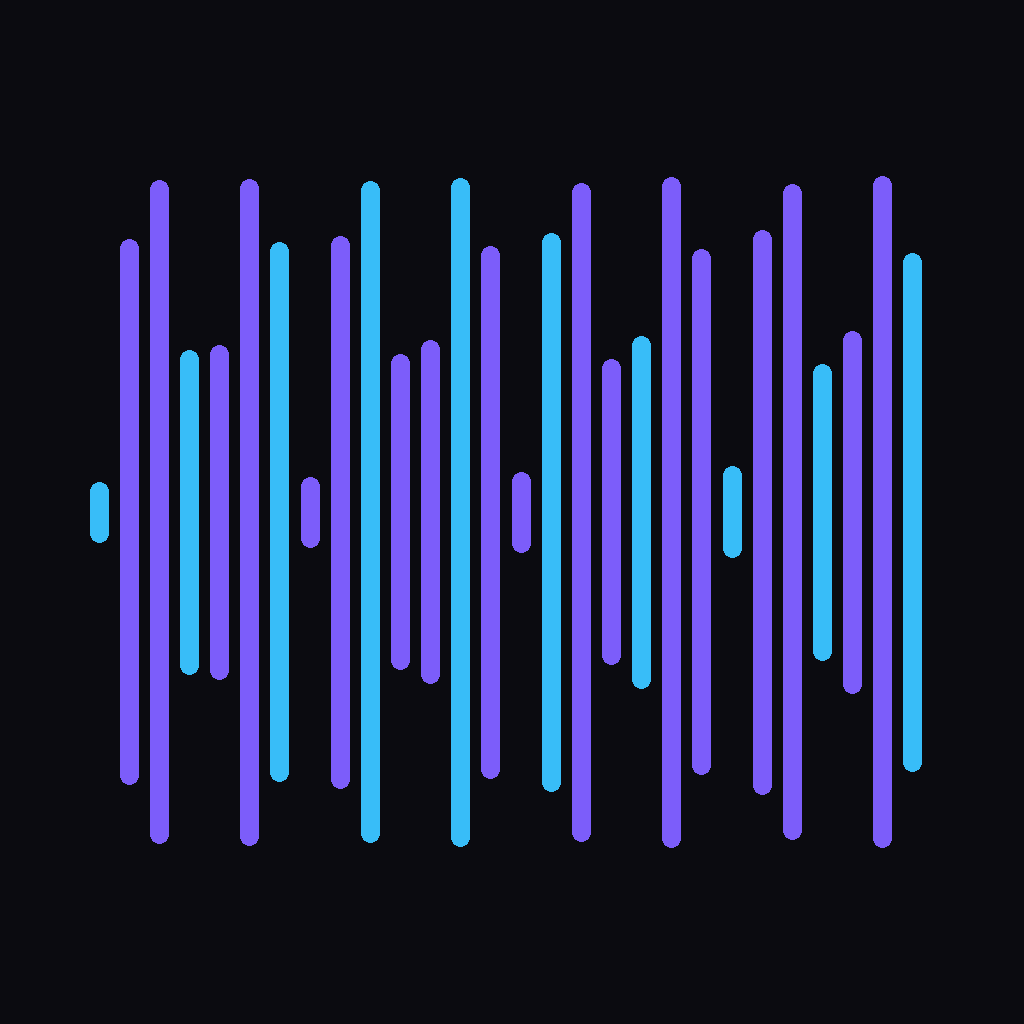
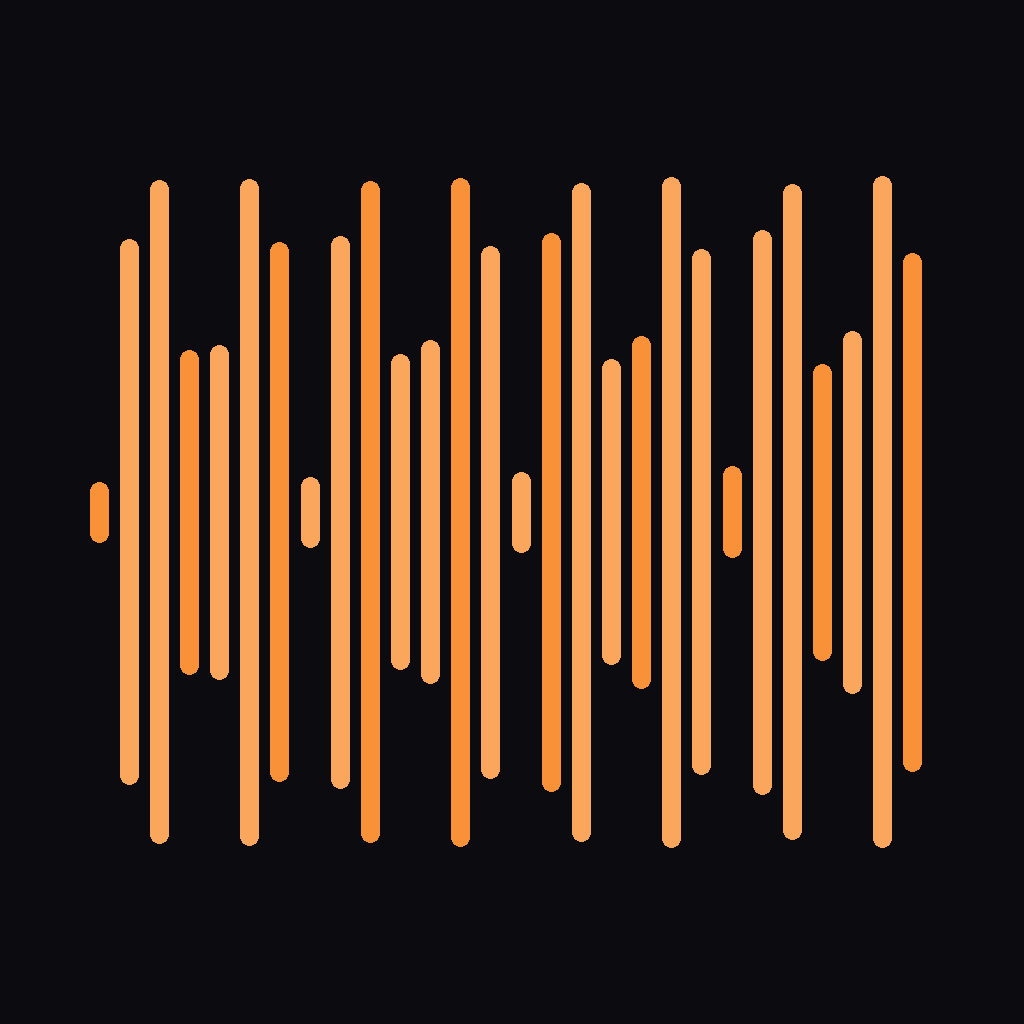
Rebrand: orange and black theme (gg33)

Changed region(s): [[0.0625, 0.1562, 0.9062, 0.8438]]

diff --git a/lib/theme.ts b/lib/theme.ts
@@ -1,15 +1,15 @@
 export const theme = {
-  bg: '#101418',
-  surface: '#1a212b',
-  surface2: '#232d3a',
-  border: '#2e3a4a',
-  text: '#f2f5f8',
-  muted: '#9aa7b8',
-  accent: '#3ddc84', // money green
-  accentDark: '#1f9d57',
-  danger: '#ff6b6b',
-  warning: '#ffb020',
-  blue: '#4da3ff',
+  bg: '#000000',
+  surface: '#141414',
+  surface2: '#1f1f1f',
+  border: '#2b2b2b',
+  text: '#ffffff',
+  muted: '#a3a3a3',
+  accent: '#ff6a00', // gg33 orange
+  accentDark: '#b34a00',
+  danger: '#ff3b30',
+  warning: '#ff9500',
+  blue: '#ff6a00',
   radius: 14,
 };
 
